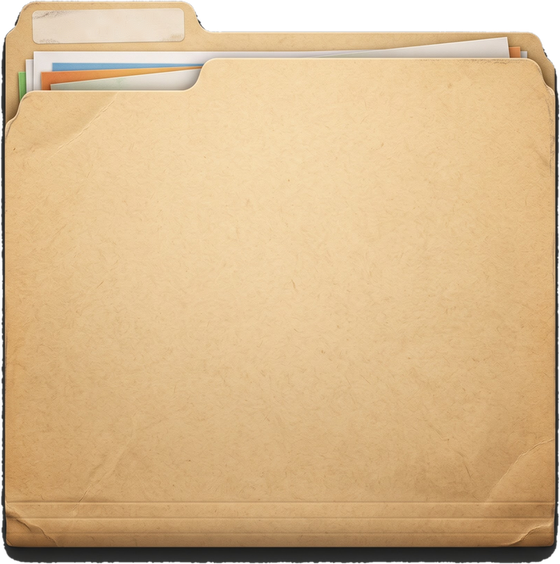
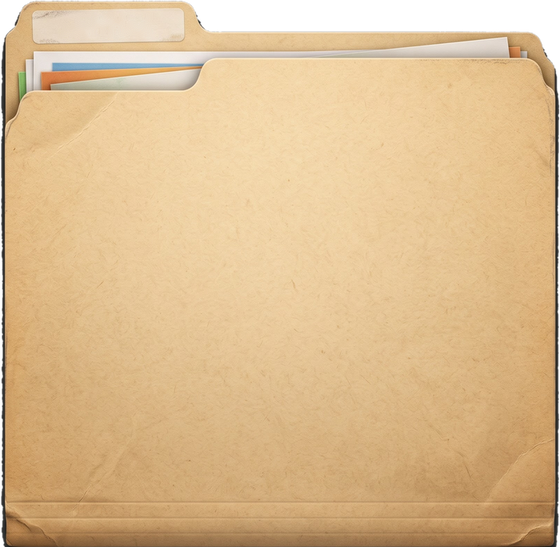
Library: folder without the grey strip; Let's make a book fits a sideways phone
Claude-Session: https://claude.ai/code/session_01NDsvQ4w6b4M39K7iEhCswz

diff --git a/src/screens/Shelf.js b/src/screens/Shelf.js
@@ -36,7 +36,7 @@ const gridGap = (w) => { const n = COLS(w); return `${(100 - n * TILE[n]) / (n -
 import Folder from '../components/Folder';
 import Corkboard from '../components/Corkboard';
 const SELECT_ICON = require('../../assets/icon-select.png');
-const FOLDER = require('../../assets/folder.png'); // 560 × 564, Jörg's kraft folder
+const FOLDER = require('../../assets/folder.png'); // 560 × 547, Jörg's kraft folder
 const PENCIL = require('../../assets/pencil-shadow.png');
 const MUG = require('../../assets/mug-shadow.png'); // hot chocolate from above, already turned
 const SHOW_MASCOT = false; // the felt mascot is off everywhere but the profile pictures (25 Oct 2026); a hand-drawn one is coming
@@ -107,7 +107,15 @@ const MAKE_BOX_PAD = 18;
 // inner: the room inside the black glass box (the book's two pages fit in it, still a gap between them)
 function MakeBookSpread({ winW, inner, onPress, t, go, wait = 1000 }) {
   const n = COLS(winW), colW = ((winW - 40) * TILE[n]) / 100, gap = ((winW - 40) * ((100 - n * TILE[n]) / (n - 1))) / 100;
-  const W = Math.min(colW, inner ? (inner - gap) / 2 : colW), spreadW = inner || 2 * colW + gap;
+  const { height: winH } = useWindowDimensions();
+  // a phone on its side: the window counts the notch and the bar beside the page, so the book is sized from the
+  // room the box really gives it and kept to a size that fits the screen's height, centred like the iPad's (Jörg, 28 Oct 2026)
+  const sideways = !IS_TABLET && winW > winH;
+  const [roomW, setRoomW] = useState(null);
+  const fit = IS_TABLET || sideways;
+  let W = Math.min(colW, inner ? (inner - gap) / 2 : colW);
+  if (sideways) W = Math.max(60, Math.min(roomW ? (roomW - gap) / 2 : W, Math.round(winH * 0.42)));
+  const spreadW = sideways ? 2 * W + gap : inner || 2 * colW + gap;
   const open = useRef(new Animated.Value(0)).current;
   useEffect(() => {
     if (!go) return undefined;
@@ -120,13 +128,12 @@ function MakeBookSpread({ winW, inner, onPress, t, go, wait = 1000 }) {
   // shut, the cover sits in the middle; open, the two pages (2W wide, the right one at W + gap) are in the middle
   // iPad: the room the box really gives it (the window is wider than the box, with the bar beside it), the book
   // centred in it (Jörg, 27 Oct 2026; the phone is unchanged)
-  const [roomW, setRoomW] = useState(null);
-  const off = IS_TABLET && roomW ? Math.max(0, (roomW - (2 * W + gap)) / 2) : 0;
+  const off = fit && roomW ? Math.max(0, (roomW - (2 * W + gap)) / 2) : 0;
   const slide = open.interpolate({ inputRange: [0, 1], outputRange: [off - (W + gap) / 2, off - gap / 2] });
   const plus = Math.round(W * 0.26), bar = Math.max(3, Math.round(W * 0.03));
   return (
-    <Pressable onPress={onPress} accessibilityRole="button" accessibilityLabel={t('Make a book')} style={{ width: IS_TABLET ? '100%' : spreadW, height: W, overflow: IS_TABLET ? 'hidden' : 'visible' }}
-      onLayout={IS_TABLET ? (e) => setRoomW(e.nativeEvent.layout.width) : undefined}>
+    <Pressable onPress={onPress} accessibilityRole="button" accessibilityLabel={t('Make a book')} style={{ width: fit ? '100%' : spreadW, height: W, overflow: fit ? 'hidden' : 'visible' }}
+      onLayout={fit ? (e) => setRoomW(e.nativeEvent.layout.width) : undefined}>
       <Animated.View style={{ position: 'absolute', left: 0, top: 0, width: spreadW, height: W, transform: [{ translateX: slide }] }}>
         {/* the right page, under the cover: white, with a + */}
         <View style={[styles.makePage, { left: W + gap, width: W, height: W }]}>
@@ -384,7 +391,7 @@ export function Library({ toBooks, onReadingOptions, onGarden, narrator, toast, 
               <Pressable onPress={() => setFolderOpen(true)} style={{ width: tileWidth(winW), gap: 8 }} accessibilityRole="button" accessibilityLabel={t('My Folder')}>
                 <View style={{ width: colW, height: colW, alignItems: 'center', justifyContent: 'center' }}>
                   {(() => {
-                    const fw = colW * 1.04, fh = fw * 564 / 560;
+                    const fw = colW * 1.04, fh = fw * 547 / 560;
                     const who = (activeProfile() || {}).name || '';
                     return (
                       <View style={{ width: fw, height: fh }}>
